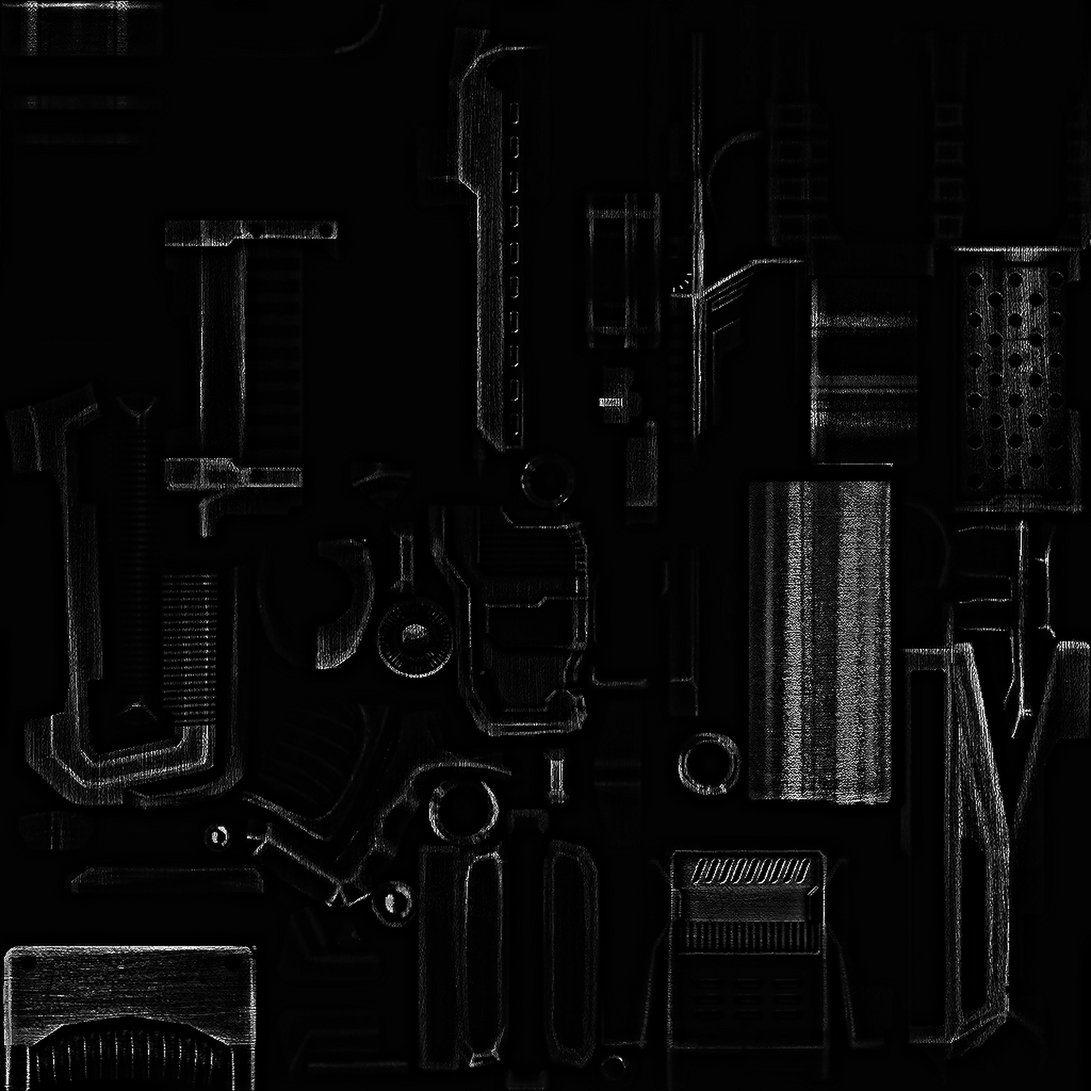
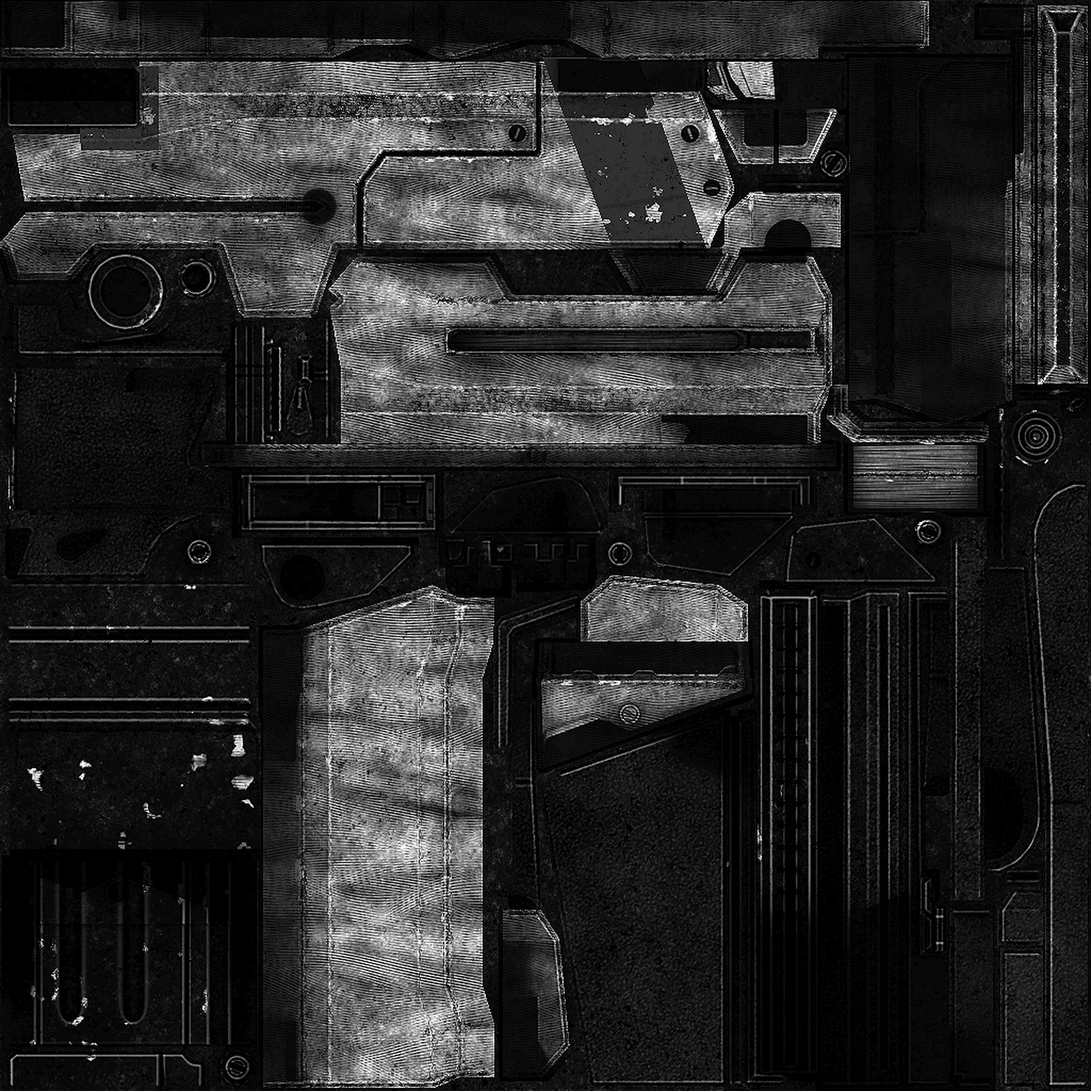
skins: repaint 9015 for the 4.7.1 MachineGun, stop skinning particle renderers
9015 Neon Circuit was authored against the 4.3.8 MachineGun texture and parked
because it rendered black in patches. The cause was a UV layout difference, not
a rotation: the 4.3.8 sheet carries art on 47.2% of its area, the 4.7.1 sheet on
86.7%. A texture painted for the sparse layout leaves the dense one's extra
islands unpainted, measured at 37.2% against a 0.4-4.4% range for every skin
that renders correctly.

Repainted against the 4.7.1 base. Measures 5.1% unpainted, mean brightness 155.5,
no baked text. The base's specular mask is composited back into alpha as a
32-level Lanczos PNG, matching how the other skins ship.

Registering it exposed a pre-existing bug flagged in 9c48333: ApplyToWeapon
assigns the skin to EVERY child Renderer, including the muzzle flash quad, which
uses the additive "Particle Add" shader. That was survivable only by luck, since
the 4.3.8-derived masks are 82-84% near-zero alpha and multiplied out to nothing
on an additive pass. This base's mask is 74.6% mid-range, so the flash rendered
as a bright rectangle of UV atlas. Effect renderers are now skipped by shader
name.

Verified in game on the retail 4.7.1 client: the gun reads correctly and the
rectangle is gone. The flash now draws as nothing rather than as the stock
flash, which skipping the assignment alone should not cause; noted in a comment
rather than papered over. Accepted deliberately for now.

9008 Inferno MG stays parked and needs the same repaint.

diff --git a/Assembly-CSharp/WeaponSkinHelper.cs b/Assembly-CSharp/WeaponSkinHelper.cs
@@ -45,14 +45,13 @@ public static class WeaponSkinHelper
 		{ 9012, "9012_VoidAmethyst.png" },
 		{ 9013, "9013_Bloodhound.png" },
 		{ 9014, "9014_AbyssalLeviathan.png" },
-		// 9015 Neon Circuit is embedded but deliberately NOT registered, same as
-		// 9008, and for the same reason: both are MachineGun skins. The 4.7.1
-		// MachineGun is a different model from the 4.3.8 one these textures target,
-		// not merely a rotated UV set, so reorienting the texture cannot fix it and
-		// it needs repainting against the 4.7.1 layout. Measured island recall is
-		// 0.899 for both, against 0.959+ for every skin that renders correctly.
-		// Verified in game 2026-08-06. Re-enabling is a one line change once the
-		// texture is redone.
+		// 9015 repainted 2026-08-11 against the 4.7.1 MachineGun base. The original was
+		// authored on the 4.3.8 texture, whose UV layout uses 47% of the sheet against
+		// 4.7.1's 87%, so it left ~37% of the mesh unpainted and rendered black in patches.
+		// The repaint measures 5.1% unpainted, in line with every skin that renders
+		// correctly (0.4% to 4.4%). 9008 Inferno MG is still parked for the same original
+		// reason and needs the same repaint.
+		{ 9015, "9015_NeonCircuit.png" },
 	};
 
 	public static readonly Dictionary<int, string> IconTextures = new Dictionary<int, string>
@@ -260,6 +259,27 @@ public static class WeaponSkinHelper
 		foreach (Renderer r in renderers)
 		{
 			if (r == null || r.material == null)
+				continue;
+
+			// Skip effect renderers. A weapon's children include its muzzle flash and shell
+			// casing, which use "Particle Add" and friends, and painting the gun's diffuse
+			// onto an additive quad makes the flash render as a bright rectangle showing a
+			// slab of the UV atlas.
+			//
+			// This has been wrong since the first version of this file, but it stayed
+			// invisible for a long time by luck: the earlier skins carried a specular mask
+			// that is 82-84% near-zero alpha, so the additive quad multiplied out to nothing.
+			// The 4.7.1 MachineGun base's mask is 74.6% MID-range, so the same bug finally
+			// showed up as a visible square. Measured, not guessed.
+			//
+			// Verified in game 2026-08-11: the square is gone. Note the flash then renders
+			// as NOTHING rather than as the stock flash, which is not what skipping the
+			// assignment alone should do, so something else on that quad depends on this
+			// path. Accepted as-is for now; a skinned weapon with no muzzle flash is a
+			// better outcome than one with a bright rectangle, but this is not fully
+			// understood and is worth revisiting.
+			Shader sh = r.material.shader;
+			if (sh != null && sh.name != null && sh.name.IndexOf("Particle", StringComparison.OrdinalIgnoreCase) >= 0)
 				continue;
 
 			r.material.mainTexture = tex;
